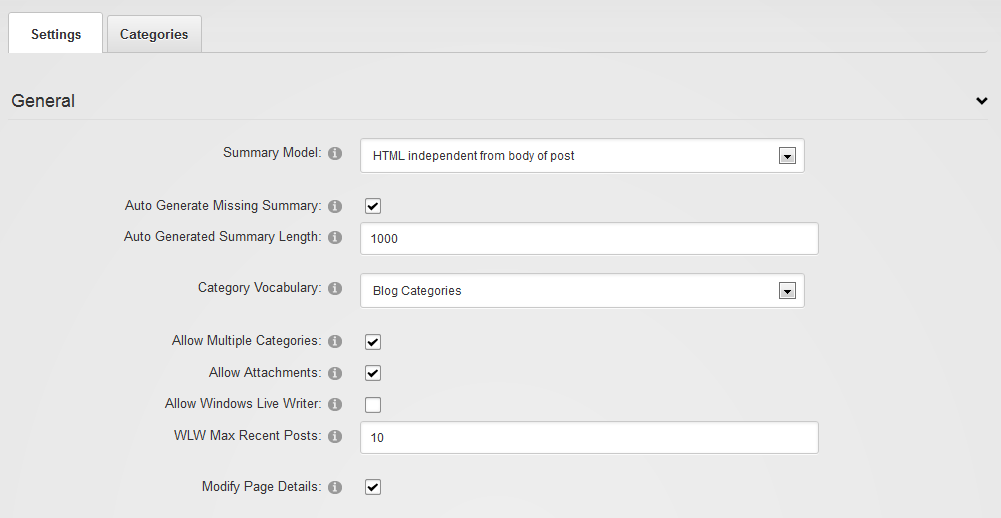
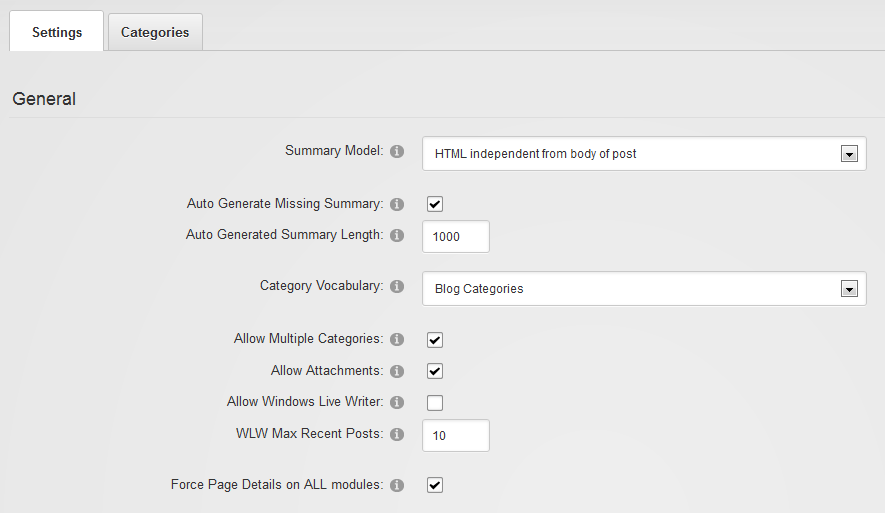
Finished documentation of more granular page details change

diff --git a/_Documentation/Manual.md b/_Documentation/Manual.md
@@ -122,8 +122,8 @@ Allow bloggers to use Windows Live Writer (see [separate chapter about this tool
 ###<a id="wlwmaxposts"></a>WLW Max Recent Posts
 When bloggers connect using Windows Live Writer, the program retrieves a list of last posts which allow the blogger to edit those. Here you specify how many posts will be retrieved at most.
 
-###<a id="modpagedetails"></a>Modify Page Details
-When selected the module attempts to change the page title and inject the post title whenever it can. There is no guarantee as other pieces (the DNN framework or other modules) may attempt to do the same.
+###<a id="modpagedetails"></a>Force Page Details on ALL modules
+When selected the module attempts to change the page title and inject the post title whenever it can for all of the installed blog modules. There is no guarantee as other pieces (the DNN framework or other modules) may attempt to do the same.
 
 ###<a id="rsssettings"></a>RSS
 
@@ -203,6 +203,8 @@ Selection of the template to use. The blog module comes with a number of templat
 ###<a id="showalllanguages"></a>Show All Languages
 Posts are labeled with the language they’re written in. When showing a list of posts, you can opt to either show all posts or only those posts labeled with the language currently selected in DNN.
 
+###<a id="showalllanguages"></a>Modify Page Details
+When selected the module attempts to change the page title and inject the post title whenever it can. There is no guarantee as other pieces (the DNN framework or other modules) may attempt to do the same.
 
 
 ##<a id="managescreen"></a>Manage Screen
